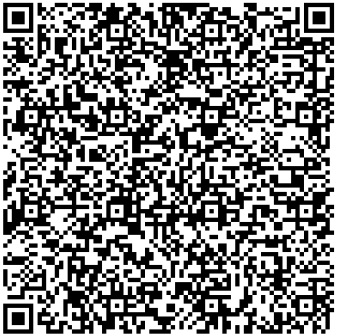
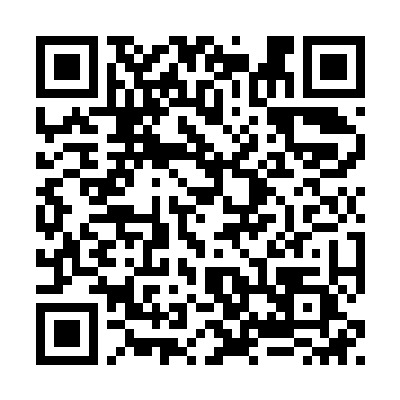
Edição placas de cliente

diff --git a/Advocacia-Vagner-Pessoa/pix/pagamento.css b/Advocacia-Vagner-Pessoa/pix/pagamento.css
@@ -1,7 +1,7 @@
 body {
   font-family: Arial, sans-serif;
-  background: linear-gradient(to bottom right, #c9a1f7
-, #c9a1f7);
+  background: linear-gradient(to bottom right, #262628
+, #3c3935);
   display: flex;
   justify-content: center;
   align-items: center;
@@ -12,12 +12,12 @@ body {
 }
 
 .container {
-  background-color: #642ab1; 
+  background-color: #bbb198; 
   padding: 30px;
   border-radius: 10px;
   box-shadow: 0 4px 8px rgba(10, 0, 0, 0.2);
   text-align: center;
-  color: white;
+  color: black;
   width: 100%; /* Ocupa 100% da largura disponível */
   max-width: 350px; /* Limita a largura máxima para não ficar muito grande em telas maiores */
   box-sizing: border-box; /* Garante que padding não adicione à largura total */
@@ -70,7 +70,7 @@ body {
 }
 
 .container button {
-  background-color: #e20e5c; 
+  background-color: #262628; 
   color: white;
   padding: 10px 20px;
   border: none;
@@ -81,14 +81,14 @@ body {
 }
 
 .container button:hover {
-  background-color: #542335;
+  background-color: #262628;
 }
 
 button {
   padding: 12px 25px;
   font-size: 16px;
   cursor: pointer;
-  background: #542335; /* azul médio dos botões */ 
+  background: #262628; /* azul médio dos botões */ 
   border: none;
   border-radius: 8px;
   color: #fff;
@@ -97,7 +97,7 @@ button {
 }
 
 button:hover {
-  background: #542335; /* tom um pouco mais claro no hover */
+  background: #262628; /* tom um pouco mais claro no hover */
 }
 
 p {

diff --git a/Advocacia-Vagner-Pessoa/wifi/front.css b/Advocacia-Vagner-Pessoa/wifi/front.css
@@ -17,7 +17,7 @@ body {
   border-radius: 10px;
   box-shadow: 0 4px 8px rgba(10, 0, 0, 0.2);
   text-align: center;
-  color: white;
+  color: black;
   width: 100%; /* Ocupa 100% da largura disponível */
   max-width: 350px; /* Limita a largura máxima para não ficar muito grande em telas maiores */
   box-sizing: border-box; /* Garante que padding não adicione à largura total */
@@ -70,7 +70,7 @@ body {
 }
 
 .container button {
-  background-color: #e1d7bf; 
+  background-color: #262628; 
   color: white;
   padding: 10px 20px;
   border: none;
@@ -81,14 +81,14 @@ body {
 }
 
 .container button:hover {
-  background-color: #542335;
+  background-color: #262628;
 }
 
 button {
   padding: 12px 25px;
   font-size: 16px;
   cursor: pointer;
-  background: #542335; /* azul médio dos botões */ 
+  background: #262628; /* azul médio dos botões */ 
   border: none;
   border-radius: 8px;
   color: #fff;
@@ -97,7 +97,7 @@ button {
 }
 
 button:hover {
-  background: #542335; /* tom um pouco mais claro no hover */
+  background: #262628; /* tom um pouco mais claro no hover */
 }
 
 p {

diff --git a/Advocacia-Vagner-Pessoa/wifi/index.html b/Advocacia-Vagner-Pessoa/wifi/index.html
@@ -11,21 +11,21 @@
     <h1>Wi-Fi</h1>
     
     <div class="qrcode">
-  <img src="qrcodewifi2.jpeg" alt="QR Code Wi-Fi" width="220">
+  <img src="qrcodewifi.jpg" alt="QR Code Wi-Fi" width="220">
 </div>
 
     <p>
-        <strong>Rede:</strong> <span id="wifiName">Ribas</span>
+        <strong>Rede:</strong> <span id="wifiName">Escritório</span>
         <br>
-        <strong>Senha:</strong> <span id="wifiPassword">RoKel_1901</span>
+        <strong>Senha:</strong> <span id="wifiPassword">robreno16r</span>
     </p>
     
     <button onclick="copiarSenha()">Copiar Senha</button>
   </div>
 
   <script>
-    const wifiSSID = "Ribas";
-    const wifiPassword = "RoKel_1901"; 
+    const wifiSSID = "Escritório";
+    const wifiPassword = "robreno16r"; 
     
     const qrCodeData = `WIFI:T:WPA;S:${wifiSSID};P:${wifiPassword};;`;
 

diff --git a/Advocacia-Vagner-Pessoa/pix/index.html b/Advocacia-Vagner-Pessoa/pix/index.html
@@ -13,13 +13,13 @@
       <img src="qrcodepix.jpeg" alt="QR Code Pix" width="220">
     </div>
 
-    <p><strong>Chave Pix:</strong> <span id="pixKey">035.417.019-86</span></p>
+    <p><strong>Chave Pix:</strong> <span id="pixKey">61474460000146</span></p>
     
     <button onclick="copiarPix()">Copiar Chave Pix</button>
   </div>
 
   <script>
-    const chavePix = "035.417.019-86"; 
+    const chavePix = "61474460000146"; 
 
     function copiarPix() {
       navigator.clipboard.writeText(chavePix);
